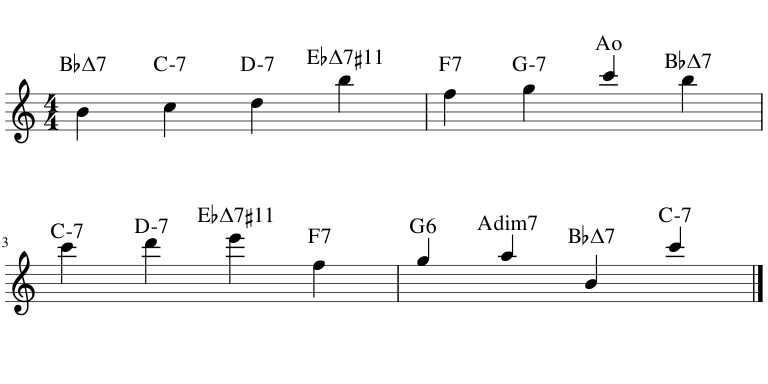
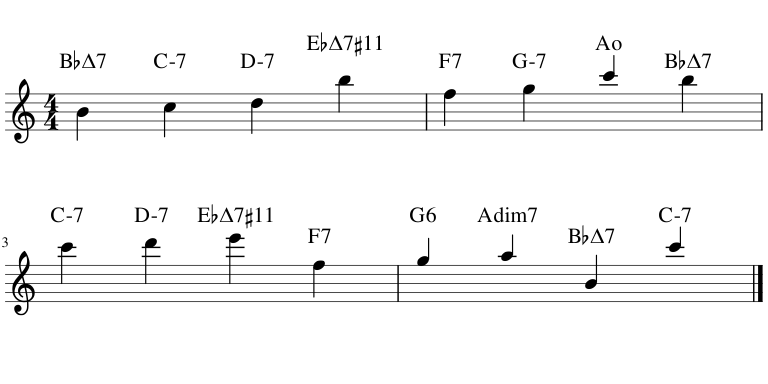
Fix #306750 - Chord symbol alignment incorrectly forces alignment between above & below chords and across staves Fix #306751 - Chord symbol alignment changes default position without reason
Resolves https://musescore.org/en/node/306750
Resolves https://musescore.org/en/node/306751

Extended the algorithm so it aligns chord symbols, fret diagrams or RNA symbols per staff
by collecting the symbols per staff and run the alignment for every staff. When looking
for the reference for the alignment, the algorithm now handles placement above and below
the staff as two different cases. This solves #306750.

Removed an extra offset which was not required anymore but was a left-over of an earlier
version of the algorithm. This solves #306751.

diff --git a/libmscore/layout.cpp b/libmscore/layout.cpp
@@ -3309,77 +3309,78 @@ void alignHarmonies(const System* system, const std::vector<Segment*>& sl, bool 
       if (almostZero(maxShiftAbove) && almostZero(maxShiftBelow))
             return;
 
-      // Get a list of Harmony/FretDiagram objects to speed up.
-      qreal height { 0.0 };
-      QList<Element*> el;
+      // Collect all fret diagrams and chord symbol and store them per staff.
+      // In the same pass, the maximum height is collected.
+      QMap<int, QList<Element*>> staves;
       for (const Segment* s : sl) {
             for (Element* e : s->annotations()) {
-                  if ((harmony && e->isHarmony()) || (!harmony && e->isFretDiagram())) {
-                        el.append(e);
-                        height = std::max(height, e->height());
-                        }
+                  if ((harmony && e->isHarmony()) || (!harmony && e->isFretDiagram()))
+                        staves[e->staffIdx()].append(e);
                   }
             }
 
-      // Align the objects.
-      // Algorithm:
-      //    - Find highest placed harmony/fretdiagram.
-      //    - Align all harmony/fretdiagram objects placed between height and height-maxShiftAbove.
-      //    - Repeat for all harmony/fretdiagram objects below heigt-maxShiftAbove.
-      QList<Element*> modified;
-      while  (!el.isEmpty()) {
-            // Pass 1, find highest/lowest place harmony.
-            qreal referencePosition { 0.0 };
-            for (Element* e : el) {
-                  if (e->placeAbove() && (referencePosition > e->y()))
-                        referencePosition = e->y();
-                  else if (e->placeBelow() && (referencePosition < e->y()))
-                        referencePosition = e->y();
-                  }
+      for (int idx: staves.keys()) {
+            // Align the objects.
+            // Algorithm:
+            //    - Find highest placed harmony/fretdiagram.
+            //    - Align all harmony/fretdiagram objects placed between height and height-maxShiftAbove.
+            //    - Repeat for all harmony/fretdiagram objects below heigt-maxShiftAbove.
+            QList<Element*> modified;
+            while  (!staves[idx].isEmpty()) {
+                  // Pass 1, find highest/lowest place harmony.
+                  qreal referencePositionAbove { 0.0 };
+                  qreal referencePositionBelow { 0.0 };
+                  for (Element* e : staves[idx]) {
+                        if (e->placeAbove() && (referencePositionAbove > e->y()))
+                              referencePositionAbove = e->y();
+                        else if (e->placeBelow() && (referencePositionBelow < e->y()))
+                              referencePositionBelow = e->y();
+                        }
 
-            if (almostZero(referencePosition))
-                  break;
+                  if (almostZero(referencePositionAbove) && almostZero(referencePositionBelow))
+                        break;
 
-            // Pass 2, align all object placed between referencePosition and referencePosition-maxShiftAbove
-            QList<Element*> again;
-            while (!el.isEmpty()) {
-                  Element* e = el.takeFirst();
-                  if (e->placeAbove() && !almostZero(maxShiftAbove)) {
-                        if (e->y() < (referencePosition + maxShiftAbove)) {
-                              e->rypos() = referencePosition + (e->isHarmony() ? height : 0.0);
-                              if (e->addToSkyline())
-                                    modified.append(e);
+                  // Pass 2, align all object placed between referencePosition and referencePosition-maxShiftAbove
+                  QList<Element*> again;
+                  while (!staves[idx].isEmpty()) {
+                        Element* e = staves[idx].takeFirst();
+                        if (e->placeAbove() && !almostZero(maxShiftAbove)) {
+                              if (e->y() < (referencePositionAbove + maxShiftAbove)) {
+                                    e->rypos() = referencePositionAbove - e->ryoffset();
+                                    if (e->addToSkyline())
+                                          modified.append(e);
+                                    }
+                              else {
+                                    again.append(e);
+                                    }
                               }
-                        else {
-                              again.append(e);
+                        else if (e->placeBelow() && !almostZero(maxShiftBelow)) {
+                              if (e->y() > (referencePositionBelow - maxShiftBelow)) {
+                                    e->rypos() = referencePositionBelow - e->ryoffset();
+                                    if (e->addToSkyline())
+                                          modified.append(e);
+                                    }
+                              else {
+                                    again.append(e);
+                                    }
                               }
                         }
-                  else if (e->placeBelow() && !almostZero(maxShiftBelow)) {
-                        if (e->y() > (referencePosition - maxShiftBelow)) {
-                              e->rypos() = referencePosition - e->ryoffset();
-                              if (e->addToSkyline())
-                                    modified.append(e);
-                              }
-                        else {
-                              again.append(e);
-                              }
-                        }
+                  staves[idx].append(again);
                   }
-            el.append(again);
-            }
 
-      // Add all aligned objects to the sky line.
-      for (Element* e : modified) {
-            const Segment* s = toSegment(e->parent());
-            const MeasureBase* m = toMeasureBase(s->parent());
-            system->staff(e->staffIdx())->skyline().add(e->shape().translated(e->pos() + s->pos() + m->pos()));
-            if (e->isFretDiagram()) {
-                  FretDiagram* fd = toFretDiagram(e);
-                  Harmony* h = fd->harmony();
-                  if (h)
-                        system->staff(e->staffIdx())->skyline().add(h->shape().translated(h->pos() + fd->pos() + s->pos() + m->pos()));
-                  else
-                        system->staff(e->staffIdx())->skyline().add(fd->shape().translated(fd->pos() + s->pos() + m->pos()));
+            // Add all aligned objects to the sky line.
+            for (Element* e : modified) {
+                  const Segment* s = toSegment(e->parent());
+                  const MeasureBase* m = toMeasureBase(s->parent());
+                  system->staff(e->staffIdx())->skyline().add(e->shape().translated(e->pos() + s->pos() + m->pos()));
+                  if (e->isFretDiagram()) {
+                        FretDiagram* fd = toFretDiagram(e);
+                        Harmony* h = fd->harmony();
+                        if (h)
+                              system->staff(e->staffIdx())->skyline().add(h->shape().translated(h->pos() + fd->pos() + s->pos() + m->pos()));
+                        else
+                              system->staff(e->staffIdx())->skyline().add(fd->shape().translated(fd->pos() + s->pos() + m->pos()));
+                        }
                   }
             }
       }
